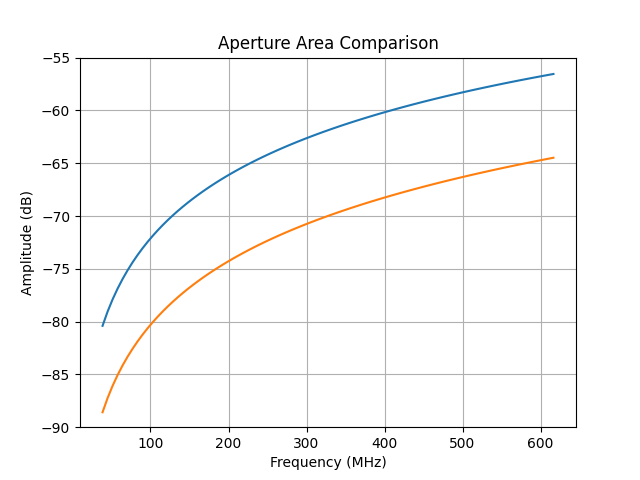
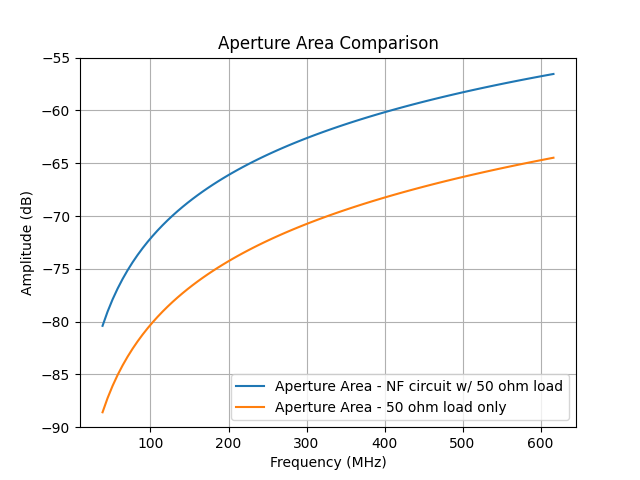
Add files via upload

Changed region(s): [[0.375, 0.7812, 0.9062, 0.875], [0.375, 0.8438, 0.4062, 0.875]]

diff --git a/examples/non_Foster_recieving_monopole/plot.py b/examples/non_Foster_recieving_monopole/plot.py
@@ -1,5 +1,10 @@
 import numpy as np
 from matplotlib import pyplot as plt
+import os
+
+# move to the current directory if not already there
+script_dir = os.path.dirname(os.path.abspath(__file__))
+os.chdir(script_dir)
 
 # load the non foster aperture area data
 data = np.loadtxt('Aperture_area.csv', delimiter=',', skiprows=1)
@@ -16,11 +21,12 @@ A_e_corrected_mag = data[3] - 10*np.log10(50)
 A_e_corrected_mag2 = data2[3] - 10*np.log10(50)
 
 plt.figure()
-plt.plot(data[0]*1000, A_e_corrected_mag, label = 'Aperture Area - NF Circuit w/ 50 ohm load')
+plt.plot(data[0]*1000, A_e_corrected_mag, label = 'Aperture Area - NF circuit w/ 50 ohm load')
 plt.plot(data2[0]*1000, A_e_corrected_mag2, label = 'Aperture Area - 50 ohm load only')
 plt.xlabel('Frequency (MHz)')
 plt.ylabel('Amplitude (dB)')
 plt.ylim(-90,-55)
+plt.legend()
 plt.grid()
 plt.title('Aperture Area Comparison')
 plt.savefig('Aperture area comparison')
@@ -31,11 +37,12 @@ G_r = A_e_corrected_mag + 10 * np.log10(4*np.pi/(lam**2))
 G_r2 = A_e_corrected_mag2 + 10 * np.log10(4*np.pi/(lam**2))
 
 plt.figure()
-plt.plot(data[0]*1000, G_r, label = 'Realized Gain - NF Circuit w/ 50 ohm load')
+plt.plot(data[0]*1000, G_r, label = 'Realized Gain - NF circuit w/ 50 ohm load')
 plt.plot(data2[0]*1000, G_r2, label = 'Realized Gain - 50 ohm load only')
 plt.xlabel('Frequency (MHz)')
 plt.ylabel('Amplitude (dB)')
 plt.ylim(-100,-35)
+plt.legend()
 plt.grid()
 plt.title('Realized Gain Comparison')
 plt.savefig('Realized gain comparison')
